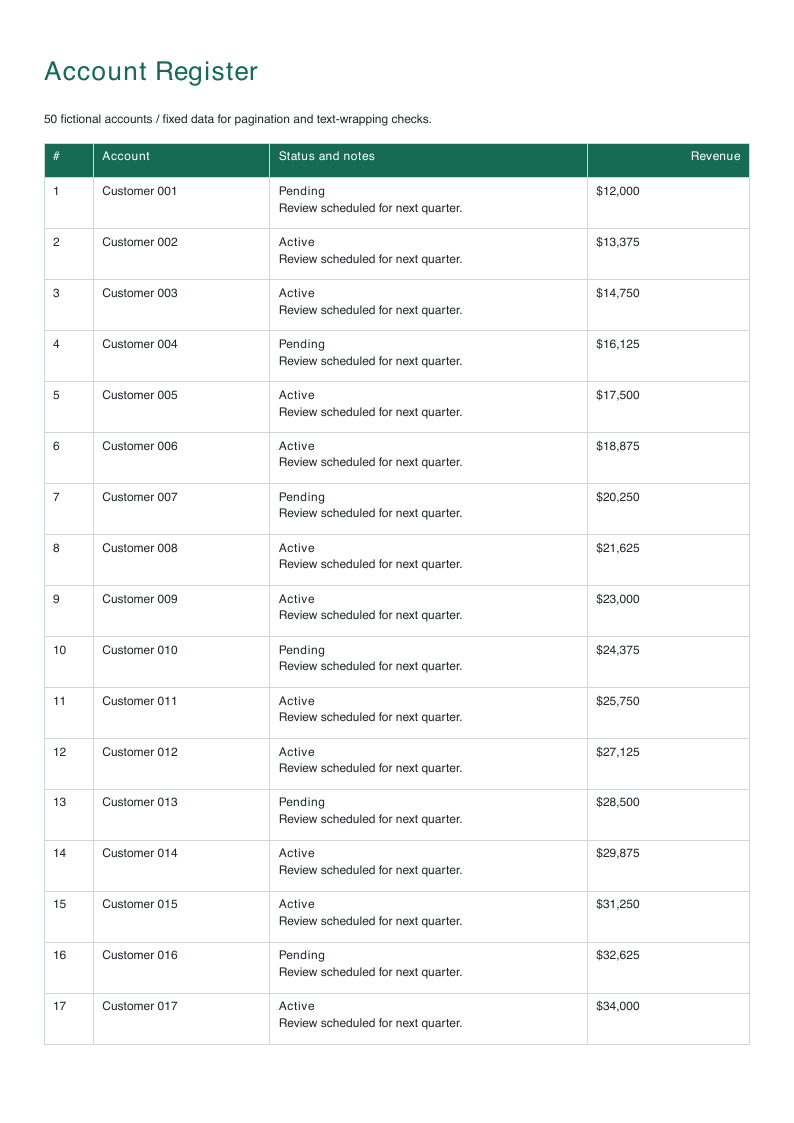
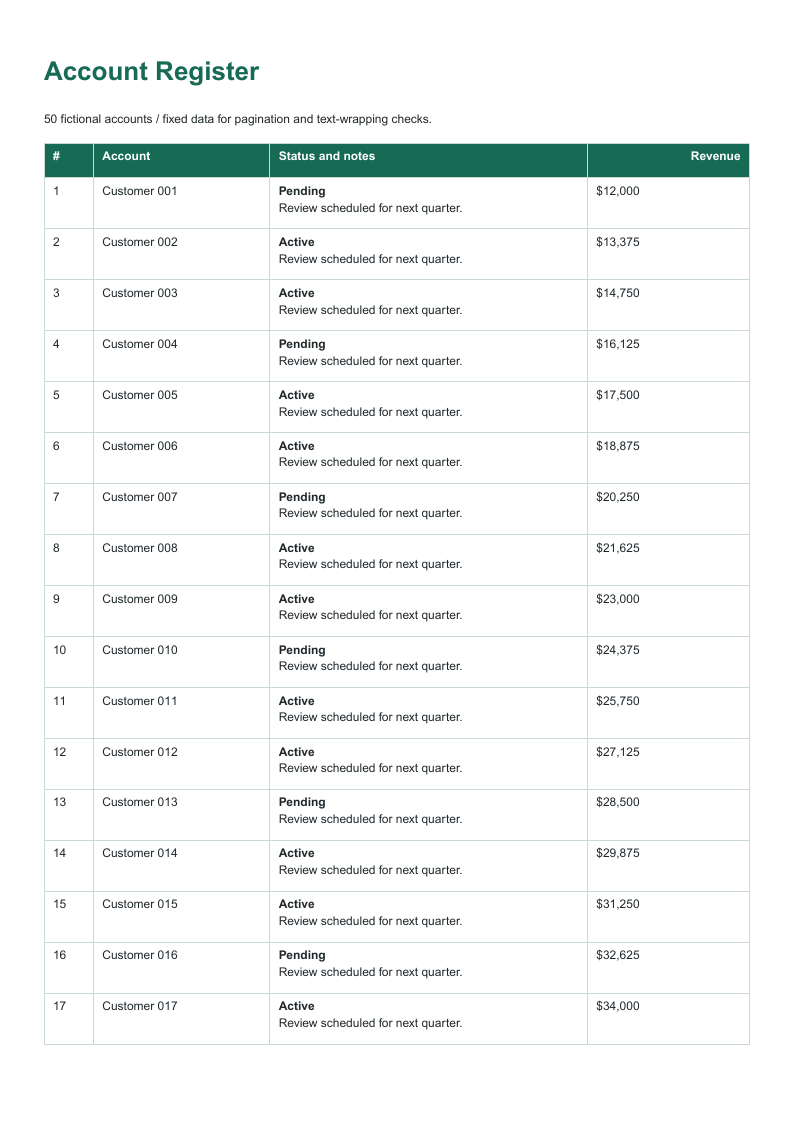
fix(examples): preserve bold fonts in macOS PDF previews

diff --git a/test/fonts.test.js b/test/fonts.test.js
@@ -1,4 +1,5 @@
 const assert = require('assert');
+const PDFDocument = require('pdfkit');
 const { renderPdfFromHtml } = require('../src/index.js');
 const { assertBuffer } = require('./helpers');
 
@@ -46,6 +47,42 @@ async function run() {
     <p style="font-weight: 400;">Normal weight</p>
   `);
   assertBuffer(weight, 'numeric font weight');
+
+  // Verify the font at actual glyph emission, not merely during measurement.
+  const fragments = [];
+  const originalFragment = PDFDocument.prototype._fragment;
+  PDFDocument.prototype._fragment = function (text, ...args) {
+    fragments.push({ text: String(text), font: this._font.name });
+    return originalFragment.call(this, text, ...args);
+  };
+  try {
+    const standardFonts = await renderPdfFromHtml(`
+      <body style="font-family: Helvetica;">
+        <p>RegularMarker <strong>StrongMarker</strong> <em>ItalicMarker</em></p>
+        <p style="font-weight:bold">CssBoldMarker</p>
+        <p style="font-weight:700">NumericBoldMarker</p>
+        <p style="font-weight:400">NormalMarker</p>
+        <div style="text-align:right"><strong>AlignedBoldMarker</strong><br>AlignedNormalMarker</div>
+        <table><tr><td><strong>CellBoldMarker</strong><br>CellNormalMarker</td></tr></table>
+        <p><strong><em>BoldItalicMarker</em></strong></p>
+      </body>
+    `, { autoResolveFonts: false, autoResolveEmojiFont: false });
+    assertBuffer(standardFonts, 'standard font emission');
+    for (const font of ['Helvetica', 'Helvetica-Bold', 'Helvetica-Oblique', 'Helvetica-BoldOblique']) {
+      assert.ok(standardFonts.includes(Buffer.from(`/BaseFont /${font}\n`)), `${font} must be present in PDF resources`);
+    }
+  } finally {
+    PDFDocument.prototype._fragment = originalFragment;
+  }
+  for (const [marker, font] of Object.entries({
+    RegularMarker: 'Helvetica', StrongMarker: 'Helvetica-Bold', ItalicMarker: 'Helvetica-Oblique',
+    CssBoldMarker: 'Helvetica-Bold', NumericBoldMarker: 'Helvetica-Bold', NormalMarker: 'Helvetica',
+    AlignedBoldMarker: 'Helvetica-Bold', AlignedNormalMarker: 'Helvetica',
+    CellBoldMarker: 'Helvetica-Bold', CellNormalMarker: 'Helvetica', BoldItalicMarker: 'Helvetica-BoldOblique',
+  })) {
+    const matching = fragments.filter(fragment => new RegExp(`\\b${marker}\\b`).test(fragment.text));
+    assert.ok(matching.length && matching.every(fragment => fragment.font === font), `${marker} must draw using ${font}`);
+  }
 
   // Text-aware fallback avoids missing glyph boxes for common currency symbols.
   const currency = await renderPdfFromHtml(`

diff --git a/examples/README.md b/examples/README.md
@@ -37,7 +37,11 @@ are **not approved regression-test baselines** or byte-identical PDF guarantees.
 The report exercises mixed-style inline wrapping, explicit `<br>` breaks and
 frames nested in percentage-width flex columns. These cases also have targeted
 coordinate-based regression tests in `test/inline-layout.test.js`.
-Bold text also needs dedicated checking in the standard-font configuration.
+Standard-font bold/italic emission is covered by `test/fonts.test.js`.
+On macOS, Poppler previews use a process-local Fontconfig configuration mapping
+Helvetica to separate Arial font files: the default Helvetica TTC substitution
+can rasterize bold as regular. This affects PNG previews only, not the generated
+PDF or system configuration. The raster font policy is recorded in the manifest.
 The `<br>` table-cell and header cases here remain useful checks.
 
 `examples/` is excluded from npm publication by the package's `files` allowlist
